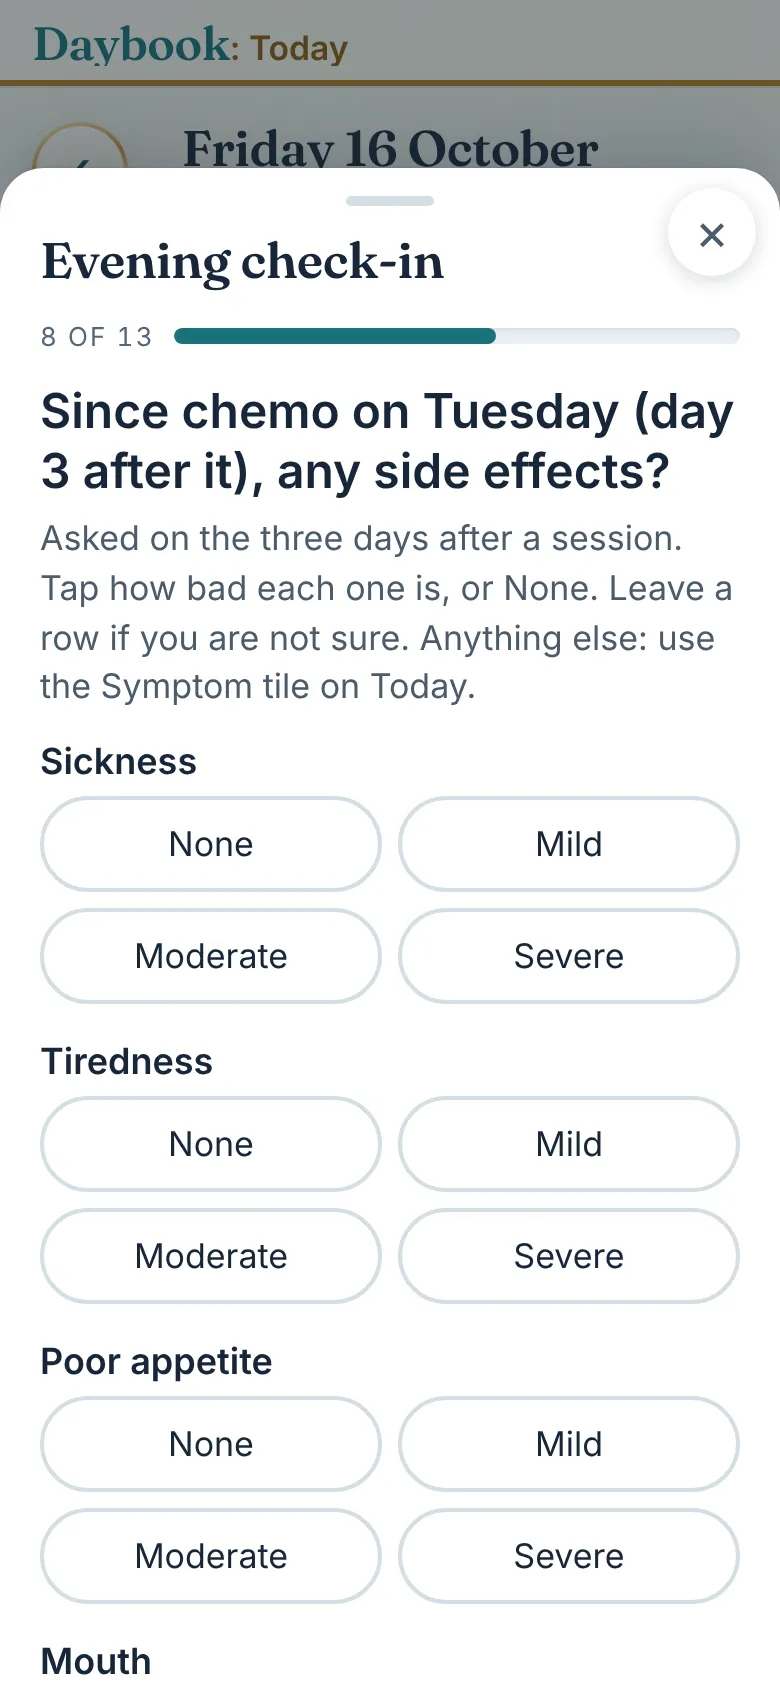
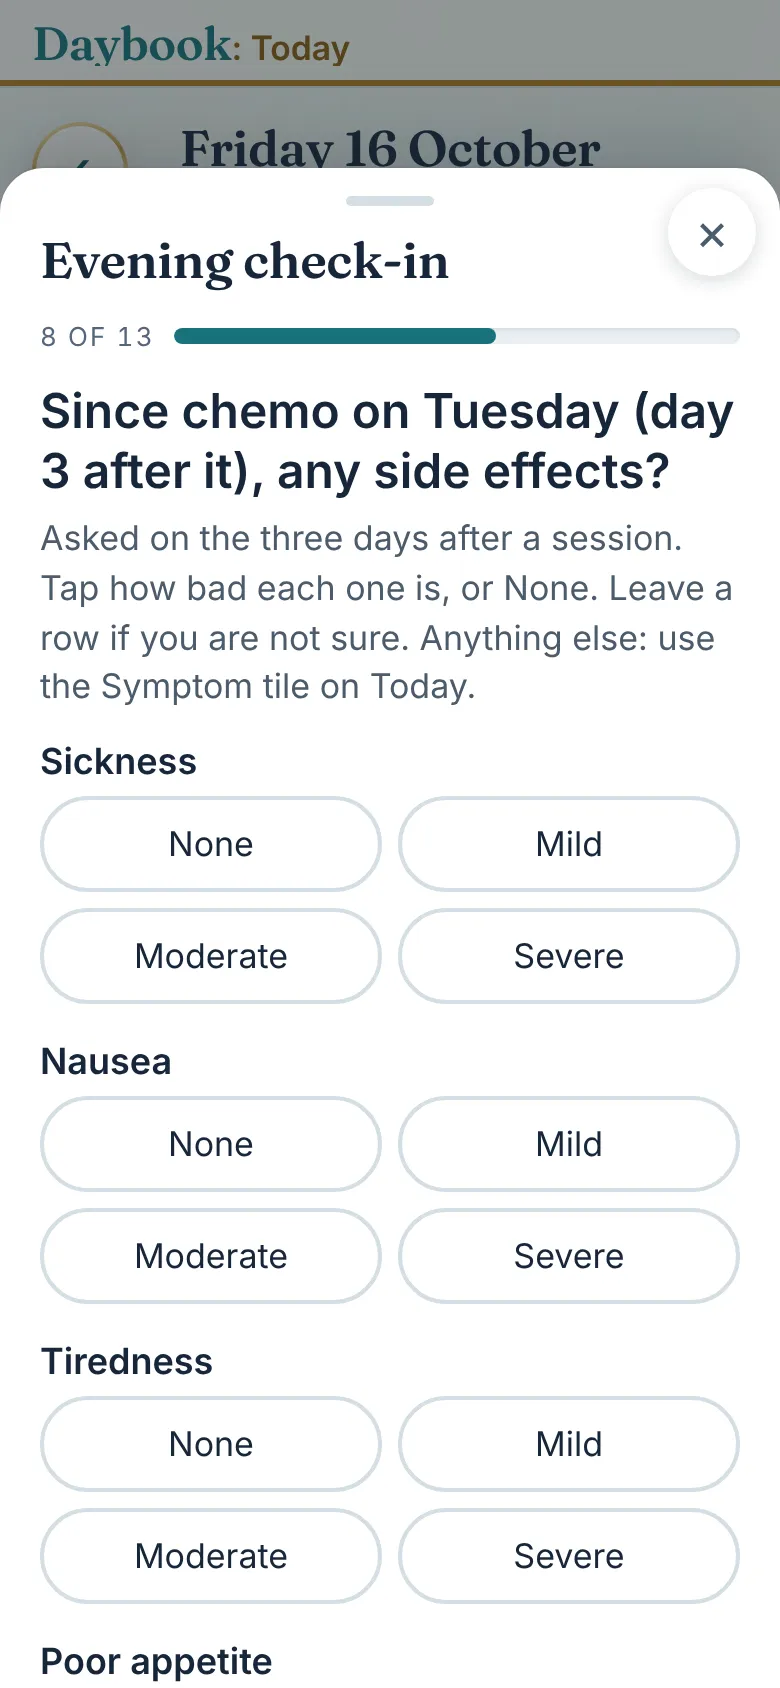
Recopy the Guide's side-effects frame from the app's v373 (Nausea added, one Tingling)
Claude-Session: https://claude.ai/code/session_019YEsmXVfWgmf6eoDkzSCEd

diff --git a/js/site.js b/js/site.js
@@ -115,7 +115,7 @@
       if (!reduced && auto !== false) play(); else stop();
     };
     var load = function () {
-      return fetch('guide/guide.json?v=32').then(function (r) { if (!r.ok) throw new Error('guide ' + r.status); return r.json(); });
+      return fetch('guide/guide.json?v=33').then(function (r) { if (!r.ok) throw new Error('guide ' + r.status); return r.json(); });
     };
     load().then(function (d) {
       G.data = d;

diff --git a/privacy.html b/privacy.html
@@ -113,6 +113,6 @@
       <p>Daybook is not a medical device and gives no medical advice. In an emergency call 999; for urgent advice call 111.</p>
     </div>
   </footer>
-  <script src="js/site.js?v=34" defer></script>
+  <script src="js/site.js?v=35" defer></script>
 </body>
 </html>

diff --git a/support.html b/support.html
@@ -76,6 +76,6 @@
       <p>Daybook is not a medical device and gives no medical advice. In an emergency call 999; for urgent advice call 111.</p>
     </div>
   </footer>
-  <script src="js/site.js?v=34" defer></script>
+  <script src="js/site.js?v=35" defer></script>
 </body>
 </html>

diff --git a/team.html b/team.html
@@ -88,6 +88,6 @@
       <p>Daybook is not a medical device and gives no medical advice. In an emergency call 999; for urgent advice call 111.</p>
     </div>
   </footer>
-  <script src="js/site.js?v=34" defer></script>
+  <script src="js/site.js?v=35" defer></script>
 </body>
 </html>

diff --git a/terms.html b/terms.html
@@ -84,6 +84,6 @@
       <p>Daybook is not a medical device and gives no medical advice. In an emergency call 999; for urgent advice call 111.</p>
     </div>
   </footer>
-  <script src="js/site.js?v=34" defer></script>
+  <script src="js/site.js?v=35" defer></script>
 </body>
 </html>

diff --git a/beta.html b/beta.html
@@ -156,6 +156,6 @@
     </div>
   </footer>
 
-  <script src="js/site.js?v=34" defer></script>
+  <script src="js/site.js?v=35" defer></script>
 </body>
 </html>

diff --git a/index.html b/index.html
@@ -479,6 +479,6 @@
     </div>
   </footer>
 
-  <script src="js/site.js?v=34" defer></script>
+  <script src="js/site.js?v=35" defer></script>
 </body>
 </html>
